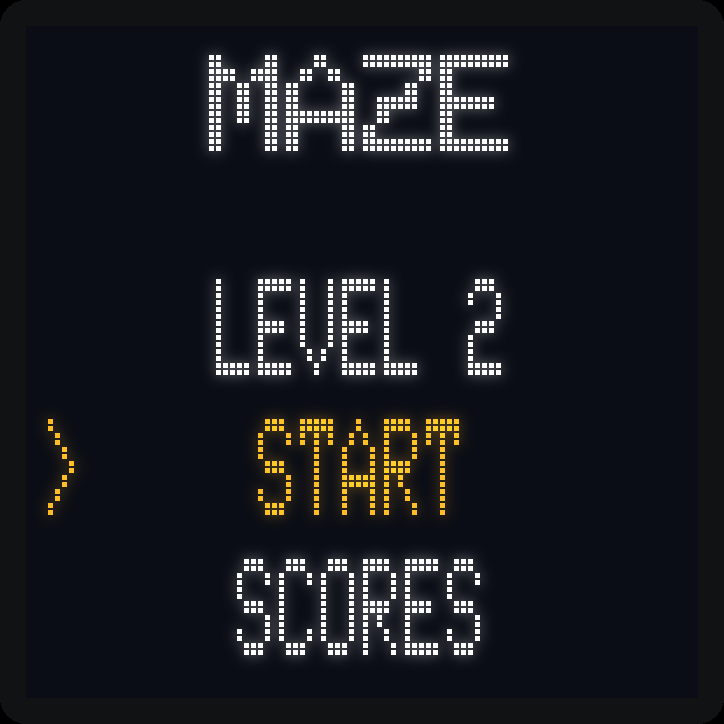
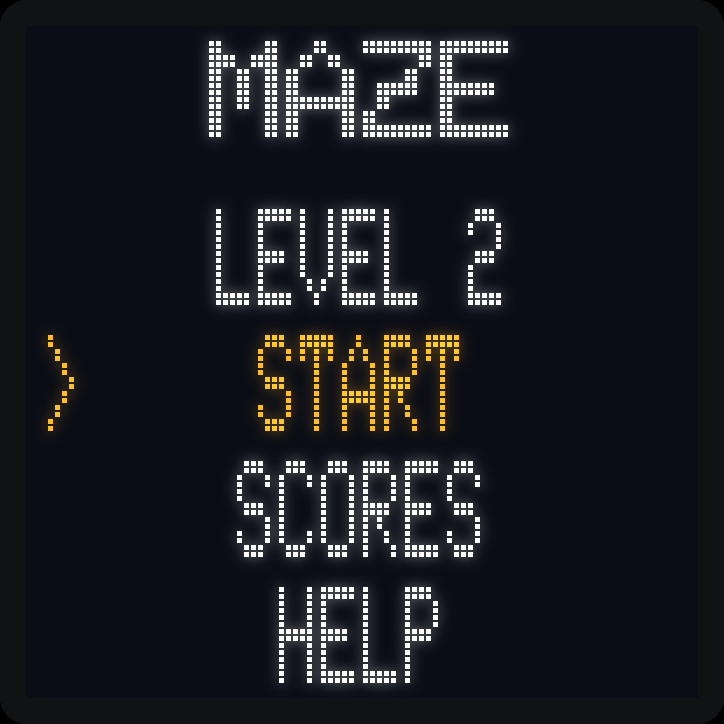
Menu: HELP item with an on-screen controls summary
Claude-Session: https://claude.ai/code/session_014SRHnpTFPuaHxq9CM5KyQS

diff --git a/game.c b/game.c
@@ -81,7 +81,7 @@ static void wait_any_key(void)
 }
 
 /* ===================== Menu ============================================= */
-typedef enum { ACT_START, ACT_SCORES } MenuAction;
+typedef enum { ACT_START, ACT_SCORES, ACT_HELP } MenuAction;
 
 /* Repaint one menu row. Only the touched rows are redrawn when the
  * selection moves, so scrolling the pot doesn't blink the whole screen. */
@@ -89,13 +89,13 @@ static void menu_item(uint8_t idx, bool sel)
 {
     char buf[12];
     const char *txt;
-    uint8_t y = (uint8_t)(34 + idx * 20);
+    uint8_t y = (uint8_t)(24 + idx * 18);
 
     if (idx == 0) {
         sprintf(buf, "LEVEL %u", difficulty);
         txt = buf;
     } else {
-        txt = (idx == 1) ? "START" : "SCORES";
+        txt = (idx == 1) ? "START" : (idx == 2) ? "SCORES" : "HELP";
     }
 
     /* glyphs at scale 2 reach y+17, so the wipe band does too */
@@ -109,8 +109,8 @@ static void menu_draw(uint8_t sel)
 {
     uint8_t i;
     ui_clear();
-    draw_centered(2, 2, 2, "MAZE", COL_TEXT);
-    for (i = 0; i < 3; i++)
+    draw_centered(0, 2, 2, "MAZE", COL_TEXT);
+    for (i = 0; i < 4; i++)
         menu_item(i, i == sel);
 }
 
@@ -120,7 +120,7 @@ static MenuAction run_menu(void)
     menu_draw(0);
     for (;;) {
         input_poll(tick_ms());
-        sel = input_pot_index(3);
+        sel = input_pot_index(4);
         if (sel != last) {                        /* repaint only two rows */
             menu_item(last, false);
             menu_item(sel, true);
@@ -134,8 +134,10 @@ static MenuAction run_menu(void)
                 DELAY_milliseconds(150);   /* so one press can't cycle twice */
             } else if (sel == 1) {
                 return ACT_START;
-            } else {
+            } else if (sel == 2) {
                 return ACT_SCORES;
+            } else {
+                return ACT_HELP;
             }
         }
         DELAY_milliseconds(10);
@@ -161,6 +163,21 @@ static void run_highscores(void)
         oledC_DrawString(2, (uint8_t)(28 + i * 18), 1, 2, (uint8_t *)buf, COL_TEXT);
     }
     draw_centered(86, 1, 1, "press a key", COL_DIM);
+    wait_any_key();
+}
+
+/* ===================== Help screen ===================================== */
+static void run_help(void)
+{
+    ui_clear();
+    draw_centered(2, 1, 2, "HOW TO PLAY", COL_TEXT);
+    oledC_DrawRectangle(15, 19, 80, 19, COL_DIM);
+    oledC_DrawString(2, 24, 1, 1, (uint8_t *)"tilt = roll ball", COL_TEXT);
+    oledC_DrawString(2, 34, 1, 1, (uint8_t *)"reach green door", COL_TEXT);
+    oledC_DrawString(2, 44, 1, 1, (uint8_t *)"grab gold coins", COL_TEXT);
+    oledC_DrawString(2, 56, 1, 1, (uint8_t *)"S1/S2 = pause", COL_HILITE);
+    oledC_DrawString(2, 66, 1, 1, (uint8_t *)"hold S1 = menu", COL_HILITE);
+    draw_centered(84, 1, 1, "press a key", COL_DIM);
     wait_any_key();
 }
 
@@ -494,6 +511,8 @@ void game_run(void)
         MenuAction a = run_menu();
         if (a == ACT_SCORES) {
             run_highscores();
+        } else if (a == ACT_HELP) {
+            run_help();
         } else {                    /* ACT_START */
             uint16_t score = 0;
             PlayResult r;
